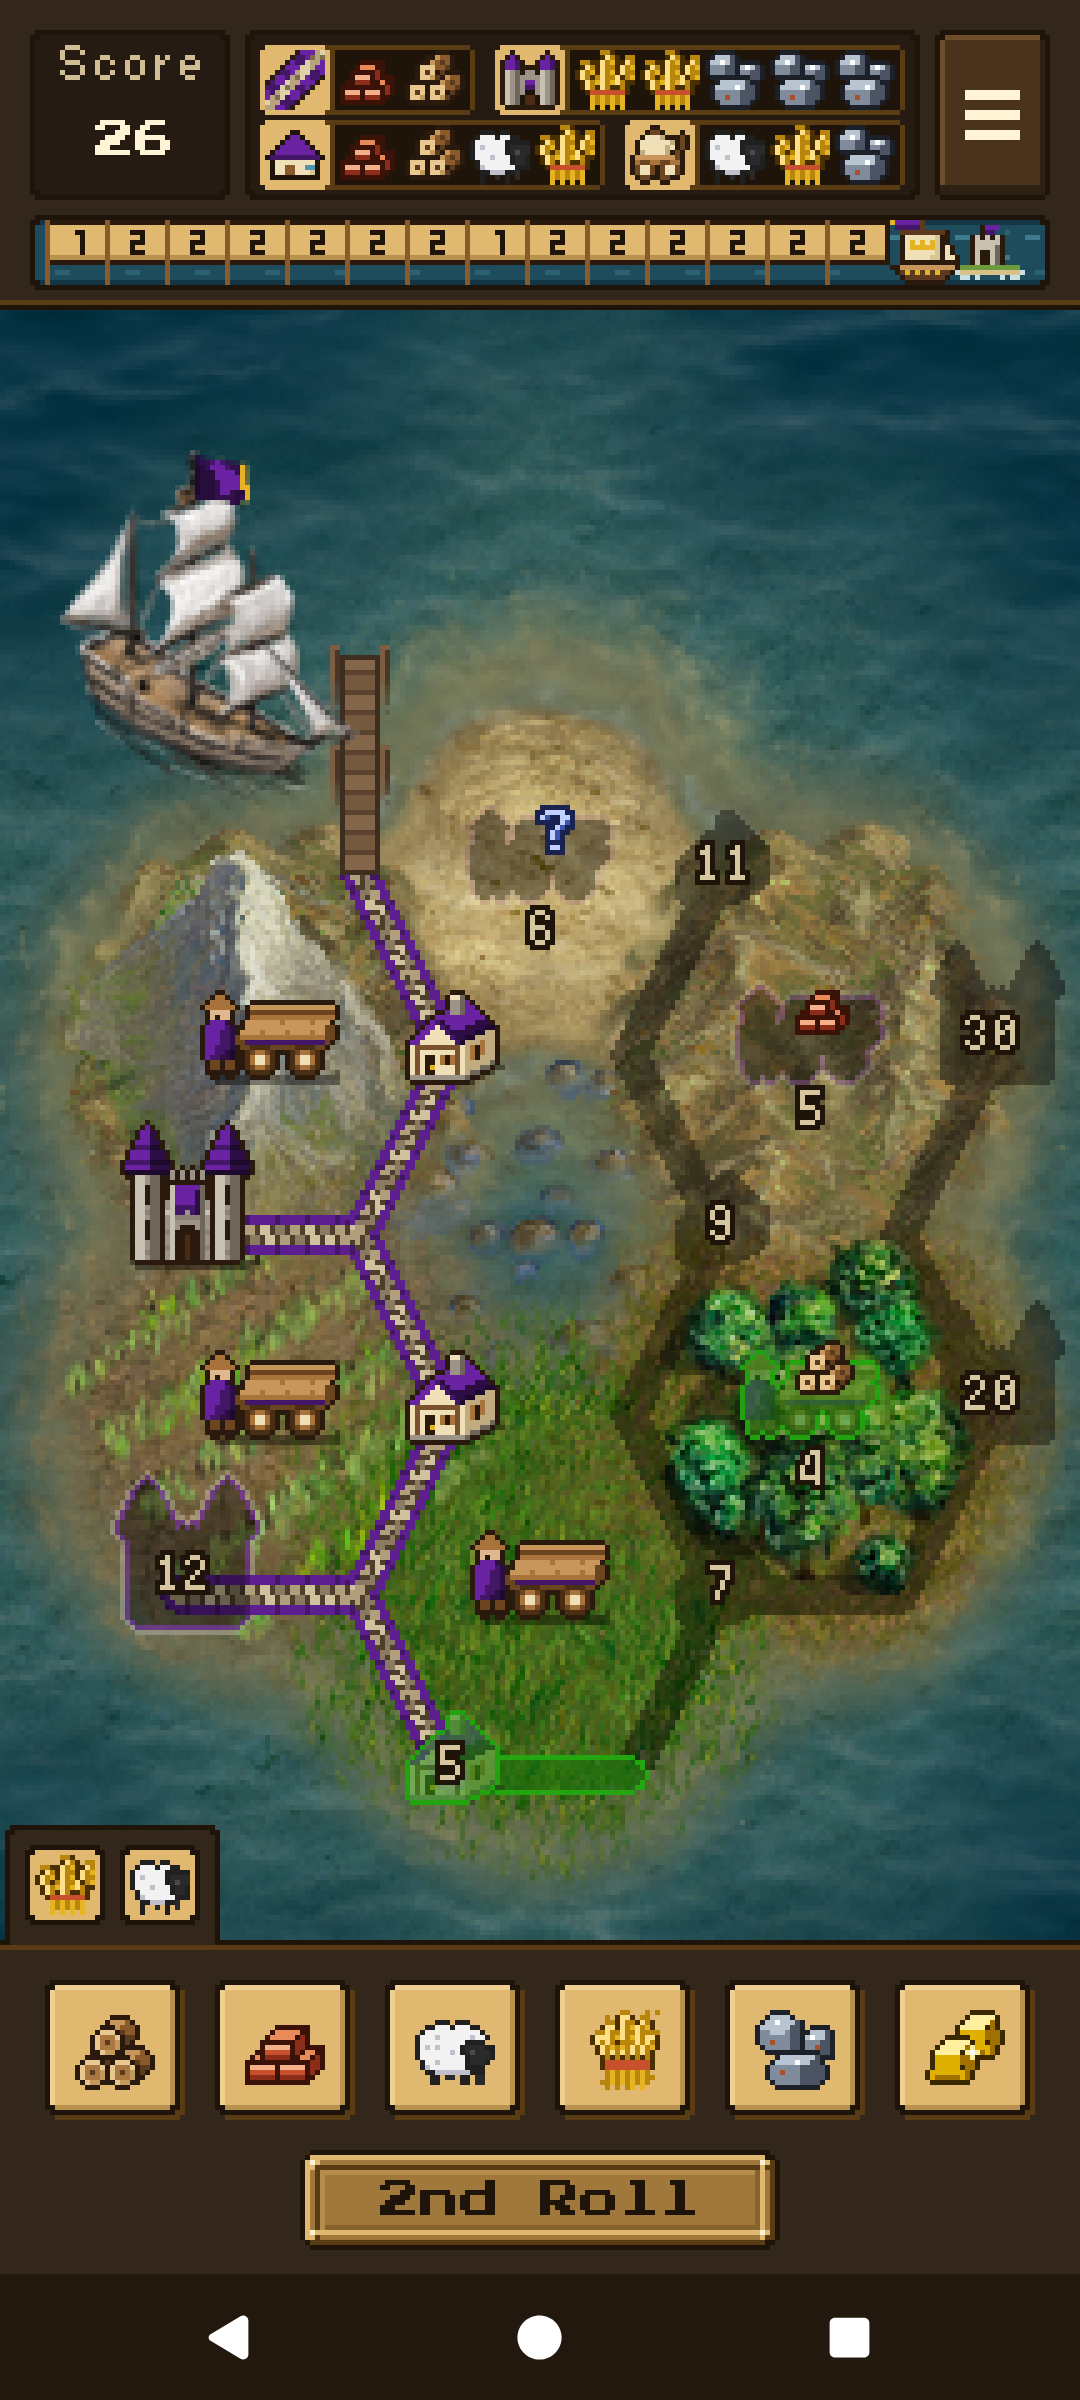
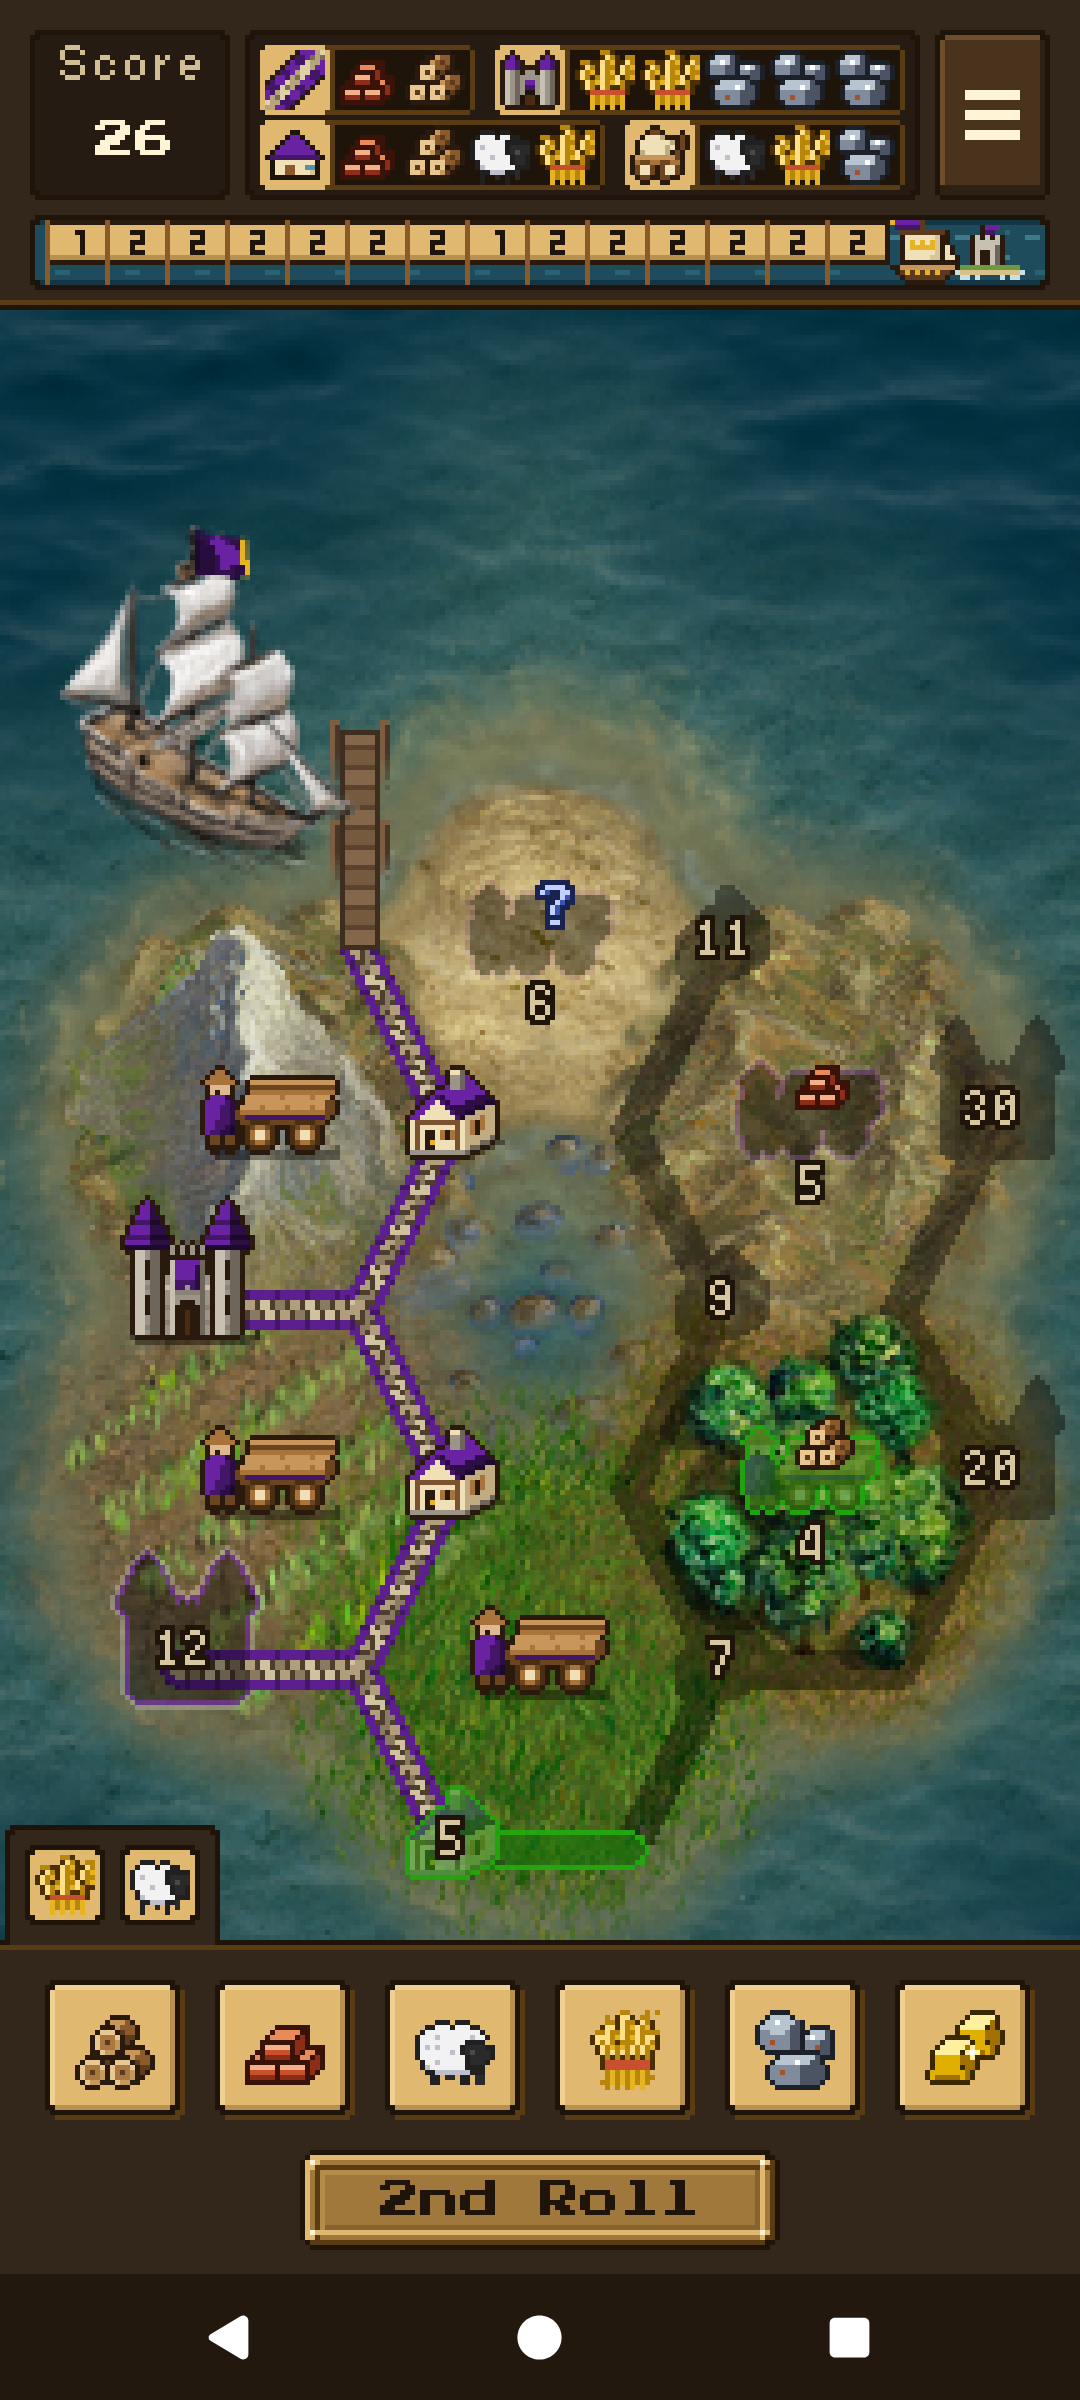
Drop the map 15 pixels and say plainly what the ship's flag change is (#6)
Exact centring from the masthead down still read as too high, so the map now sits 15 art pixels
below the middle. The island's foot still stays above the bottom bar on short screens. The
README screenshots are retaken to match.

Credits: Wesnoth's flag was already team colour magenta, which the old wording hid.

diff --git a/app/src/test/java/com/ridgelineapps/resdicegame/VoyageTest.java b/app/src/test/java/com/ridgelineapps/resdicegame/VoyageTest.java
@@ -563,7 +563,7 @@ public class VoyageTest {
    @Test
    public void theFarStopOnEachScreenIsLevelWithTheDockAndShowsItsBow() throws IOException {
       boolean[][] ship = mask(read("piece_kingship"));
-      Pt[] boards = { new Pt(-144, 1), new Pt(-132, -27) };
+      Pt[] boards = { new Pt(-144, 16), new Pt(-132, -22) };
       for(int i = 0; i < SCREENS.length; i++) {
          int[] shown = shown(MapDef.TARNHOLM, SCREENS[i]);
          Pt origin = Voyage.boardOrigin(SCREENS[i][0], GameView.TOP_H, SCREENS[i][1] - GameView.BOTTOM_H - SCREENS[i][3]);
@@ -637,20 +637,22 @@ public class VoyageTest {
    }
 
    /**
-    * As much water shows above the moored ship as below the island, whatever the screen,
+    * The map sits MAP_DROP below the middle of the water between the bars, whatever the screen,
     * but never with the island's foot under the bottom bar.
     */
    @Test
    public void theMapWithTheShipInHarbourIsCentredBetweenTheBars() {
-      int[][] bars = { { 62, 401 }, { 76, 375 }, { 62, 500 }, { 80, 640 } };
+      int[][] bars = { { 62, 401 }, { 62, 500 }, { 80, 640 } };
       for(int[] bar : bars) {
          Pt at = Voyage.boardOrigin(216, bar[0], bar[1]);
          int above = at.y + Voyage.HARBOUR_TOP - bar[0];
          int below = bar[1] - (at.y + Voyage.ISLAND_FOOT);
-         assertTrue(bar[0] + ": " + above + " above, " + below + " below", Math.abs(above - below) <= 1);
+         assertTrue(bar[0] + ": " + above + " above, " + below + " below", Math.abs(above - below - 2 * Voyage.MAP_DROP) <= 1);
          assertTrue(above >= 0);
+         assertTrue(below >= 0);
       }
-      // A screen too short to show it all: the island's foot wins, and stays above the bottom bar
+      // The island's foot wins where the drop would push it under the bottom bar
+      assertEquals(375 - Voyage.ISLAND_FOOT, Voyage.boardOrigin(216, 76, 375).y);
       assertEquals(300 - Voyage.ISLAND_FOOT, Voyage.boardOrigin(216, 62, 300).y);
    }
 

diff --git a/app/src/main/java/com/ridgelineapps/resdicegame/Voyage.java b/app/src/main/java/com/ridgelineapps/resdicegame/Voyage.java
@@ -77,6 +77,8 @@ final class Voyage {
     */
    static final int HARBOUR_TOP = 94;
    static final int ISLAND_FOOT = 366;
+   /** How far below the exact middle the map sits: the eye weighs the island, not the masthead. */
+   static final int MAP_DROP = 15;
 
    private Voyage() {
    }
@@ -208,11 +210,11 @@ final class Voyage {
     * Where the board's top left goes on the art canvas. Across, the board is centred. Down,
     * what the map shows at its fullest, from the moored ship's masthead to the island's foot,
     * is centred between the top bar (ending at barBottom) and the bottom bar (starting at
-    * trayTop), so as much water shows above the ship as below the island on any screen. A
-    * screen too short to show all of it keeps the island's foot above the bottom bar.
+    * trayTop), then dropped by MAP_DROP, on any screen. The island's foot always stays above
+    * the bottom bar, which on a short screen takes up some or all of the drop.
     */
    static Pt boardOrigin(int artWidth, int barBottom, int trayTop) {
-      int y = (barBottom + trayTop - HARBOUR_TOP - ISLAND_FOOT) / 2;
+      int y = (barBottom + trayTop - HARBOUR_TOP - ISLAND_FOOT) / 2 + MAP_DROP;
       return new Pt(artWidth / 2 - Board.CENTRE_X, Math.min(y, trayTop - ISLAND_FOOT));
    }
 

diff --git a/CREDITS.md b/CREDITS.md
@@ -54,8 +54,9 @@ The King's ship on the board (`piece_kingship.png`) is
 records its author as the FreeCol project and its licence as GNU GPL v2+. Wesnoth has since
 replaced this sprite (current Wesnoth has a different sprite under the same name, licensed
 CC BY-SA 4.0); the one used here is the 1.16.11 file. It is unchanged except for its flag
-(100 of its pixels): the team colour is redrawn in magenta shades with a gold fly, keeping each
-pixel's alpha, and the game recolours the magenta to the player's colour as it draws.
+(100 of its pixels). Wesnoth's flag is already team colour magenta; here its shades are remapped
+to the five this game recolours, with a gold fly added and each pixel's alpha kept, and the game
+turns the magenta into the player's colour as it draws.
 
 Changes. The terrain tiles are composited at native resolution with the blending rules of
 Wesnoth's terrain graphics, ported to `tools/bake_board.py` (differences from a live Wesnoth
